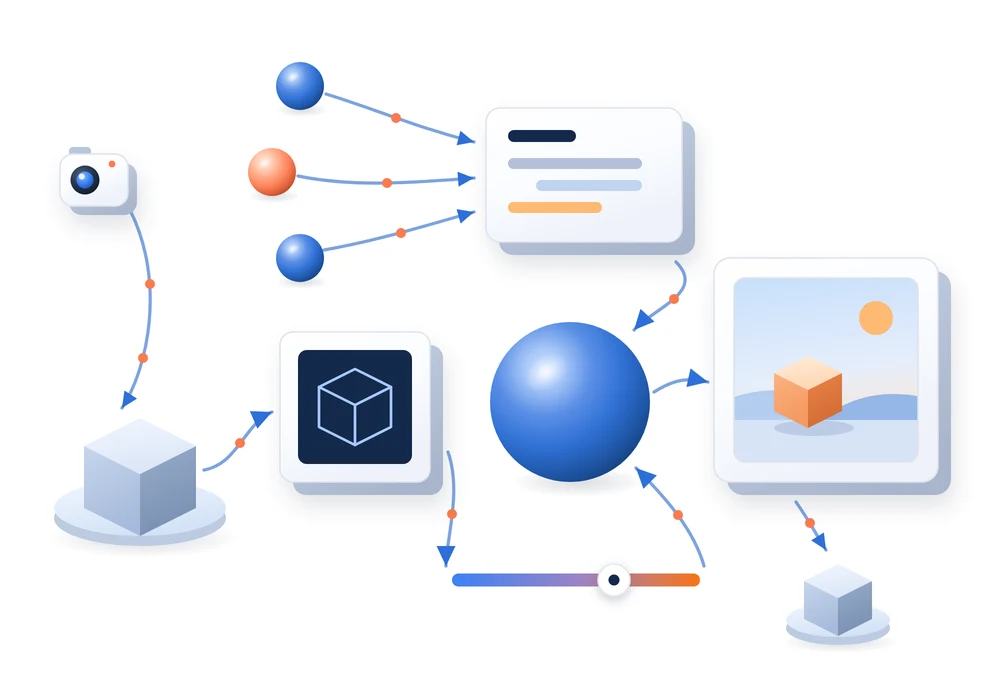
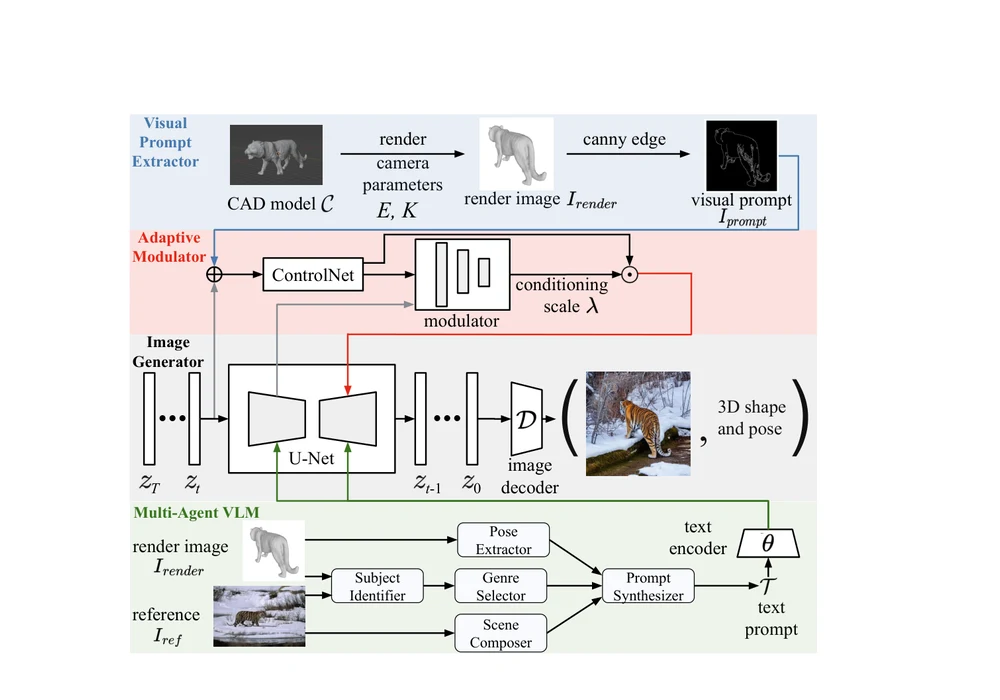
update paper figures

Changed region(s): [[0.031, 0.09, 0.961, 0.93]]

diff --git a/src/pages/InfoPage.tsx b/src/pages/InfoPage.tsx
@@ -15,29 +15,60 @@ const strengthsFirst = (skills: readonly string[]) =>
 
 // Chip widths vary, so a collapsed category is capped by height rather than by count; that keeps
 // every card the same size no matter how long its skill names are.
-const COLLAPSED_HEIGHT = "max-h-60 overflow-hidden"
+const COLLAPSED_CAP = 240
+
+// The cap has to land on a row boundary, or it slices the last row of chips in half. Highlighted
+// chips are two pixels taller than plain ones, so a row is keyed by its top and measured by the
+// lowest chip in it, and the bottom is rounded up so no chip loses a sub-pixel.
+function lastRowBottomWithin(list: HTMLElement, cap: number) {
+  const top = list.getBoundingClientRect().top
+  const rowBottoms = new Map<number, number>()
+  for (const chip of Array.from(list.children)) {
+    const box = chip.getBoundingClientRect()
+    const row = Math.round(box.top - top)
+    rowBottoms.set(row, Math.max(rowBottoms.get(row) ?? 0, Math.ceil(box.bottom - top)))
+  }
+  const bottoms = [...rowBottoms.values()].sort((a, b) => a - b)
+  if (bottoms.length === 0 || bottoms[bottoms.length - 1] <= cap) return null
+  return bottoms.filter((bottom) => bottom <= cap).pop() ?? bottoms[0]
+}
 
 function SkillCategory({ category, skills }: { category: string; skills: readonly string[] }) {
   const [expanded, setExpanded] = useState(false)
-  const [overflows, setOverflows] = useState(false)
+  const [collapsedHeight, setCollapsedHeight] = useState<number | null>(null)
   const list = useRef<HTMLDivElement>(null)
 
   useEffect(() => {
     const element = list.current
-    if (element) setOverflows(element.scrollHeight > element.clientHeight + 4)
+    const card = element?.parentElement
+    if (!element || !card) return
+    const measure = () => setCollapsedHeight(lastRowBottomWithin(element, COLLAPSED_CAP))
+    measure()
+    // Chip heights shift once the web font replaces the fallback, which moves the row boundary.
+    document.fonts.ready.then(measure)
+    // The card's width decides how the chips wrap, so re-measure when it changes.
+    const observer = new ResizeObserver(measure)
+    observer.observe(card)
+    return () => observer.disconnect()
   }, [skills])
+
+  const collapsed = !expanded && collapsedHeight !== null
 
   return (
     <BentoItem className="!p-4">
       <h3 className="text-sm font-semibold text-blue-800 mb-3">{category}</h3>
-      <div ref={list} className={`flex flex-wrap gap-1.5 ${expanded ? "" : COLLAPSED_HEIGHT}`}>
+      <div
+        ref={list}
+        className="flex flex-wrap gap-1.5"
+        style={collapsed ? { height: collapsedHeight, overflow: "hidden" } : undefined}
+      >
         {strengthsFirst(skills).map((skill) => (
           <Badge key={skill} variant={PROFESSIONAL_SKILLS.includes(skill) ? "pro" : "default"}>
             {skill}
           </Badge>
         ))}
       </div>
-      {overflows && (
+      {collapsedHeight !== null && (
         <button
           type="button"
           onClick={() => setExpanded((wasExpanded) => !wasExpanded)}

diff --git a/index.html b/index.html
@@ -67,7 +67,7 @@
       </section>
       <section id="news">
       <h2>News</h2>
-      <ul><li><strong>September 2026</strong>: I presented our <a href="https://eccv.ecva.net/virtual/2026/poster/5183">AC3S</a> poster at <a href="https://eccv.ecva.net/Conferences/2026">ECCV 2026</a> in <a href="https://eccv.ecva.net/Conferences/2026/Venues">Malmö, Sweden</a>, <a href="https://eccv.ecva.net/virtual/2026/calendar">ExHall #107 on September 12</a>.</li><li><strong>August 2026</strong>: Our paper <a href="https://arxiv.org/abs/2609.11209">REVA: Reusable Evidence View Aggregation for Context-Efficient RAG Serving</a> is accepted to the <a href="https://www.datamining.org/">IEEE International Conference on Data Mining (ICDM) 2026</a>.</li><li><strong>June 2026</strong>: Our paper <a href="https://arxiv.org/abs/2606.31204">AC3S: Adaptive Conditioning for 3D-Aware Synthetic Data Generation</a> is accepted to the <a href="https://eccv.ecva.net/">European Conference on Computer Vision (ECCV) 2026</a>.</li><li><strong>May 2026</strong>: I received my B.S. in Data Science and Information Science at the <a href="https://www.illinois.edu/">University of Illinois Urbana-Champaign</a>.</li></ul>
+      <ul><li><strong>September 2026</strong>: I presented our <a href="https://eccv.ecva.net/virtual/2026/poster/5183">AC3S poster</a> at <a href="https://eccv.ecva.net/Conferences/2026">ECCV 2026</a> in <a href="https://eccv.ecva.net/Conferences/2026/Venues">Malmö, Sweden</a>, <a href="https://eccv.ecva.net/virtual/2026/poster/5183">ExHall #107 on September 12</a>.</li><li><strong>August 2026</strong>: Our paper <a href="https://arxiv.org/abs/2609.11209">REVA: Reusable Evidence View Aggregation for Context-Efficient RAG Serving</a> is accepted to the <a href="https://www.datamining.org/">IEEE International Conference on Data Mining (ICDM) 2026</a>.</li><li><strong>June 2026</strong>: Our paper <a href="https://arxiv.org/abs/2606.31204">AC3S: Adaptive Conditioning for 3D-Aware Synthetic Data Generation</a> is accepted to the <a href="https://eccv.ecva.net/">European Conference on Computer Vision (ECCV) 2026</a>.</li><li><strong>May 2026</strong>: I received my B.S. in Data Science and Information Science at the <a href="https://www.illinois.edu/">University of Illinois Urbana-Champaign</a>.</li></ul>
       </section>
       <section id="research-interests">
       <h2>Research Interests</h2>

diff --git a/src/data/content.ts b/src/data/content.ts
@@ -55,7 +55,7 @@ const PUBLICATIONS: Publication[] = [
     authors: ["Tuan Nguyen", "Qiran Hu", "Banruo Liu", "Khoa D. Doan", "Kok-Seng Wong", "Fan Lai"],
     venue: "IEEE International Conference on Data Mining (ICDM), 2026",
     badge: "ICDM",
-    image: { src: "/images/papers/reva.webp", alt: "Retrieved documents compressed into a compact context for a model" },
+    image: { src: "/images/papers/reva.webp", alt: "Three charts from the paper: online overhead per query across five compressors, F1 change over global truncation on four QA datasets, and the share of queries that re-access a stored document" },
     links: [
       { label: "PDF", url: "https://arxiv.org/pdf/2609.11209" },
       { label: "BibTeX", url: "https://arxiv.org/bibtex/2609.11209" },
@@ -189,13 +189,13 @@ export const NEWS: NewsItem[] = [
     date: "September 2026",
     segments: [
       { text: "I presented our " },
-      { text: "AC3S", href: "https://eccv.ecva.net/virtual/2026/poster/5183" },
-      { text: " poster at " },
+      { text: "AC3S poster", href: "https://eccv.ecva.net/virtual/2026/poster/5183" },
+      { text: " at " },
       { text: "ECCV 2026", href: "https://eccv.ecva.net/Conferences/2026" },
       { text: " in " },
       { text: "Malmö, Sweden", href: "https://eccv.ecva.net/Conferences/2026/Venues" },
       { text: ", " },
-      { text: "ExHall #107 on September 12", href: "https://eccv.ecva.net/virtual/2026/calendar" },
+      { text: "ExHall #107 on September 12", href: "https://eccv.ecva.net/virtual/2026/poster/5183" },
       { text: "." },
     ],
   },
